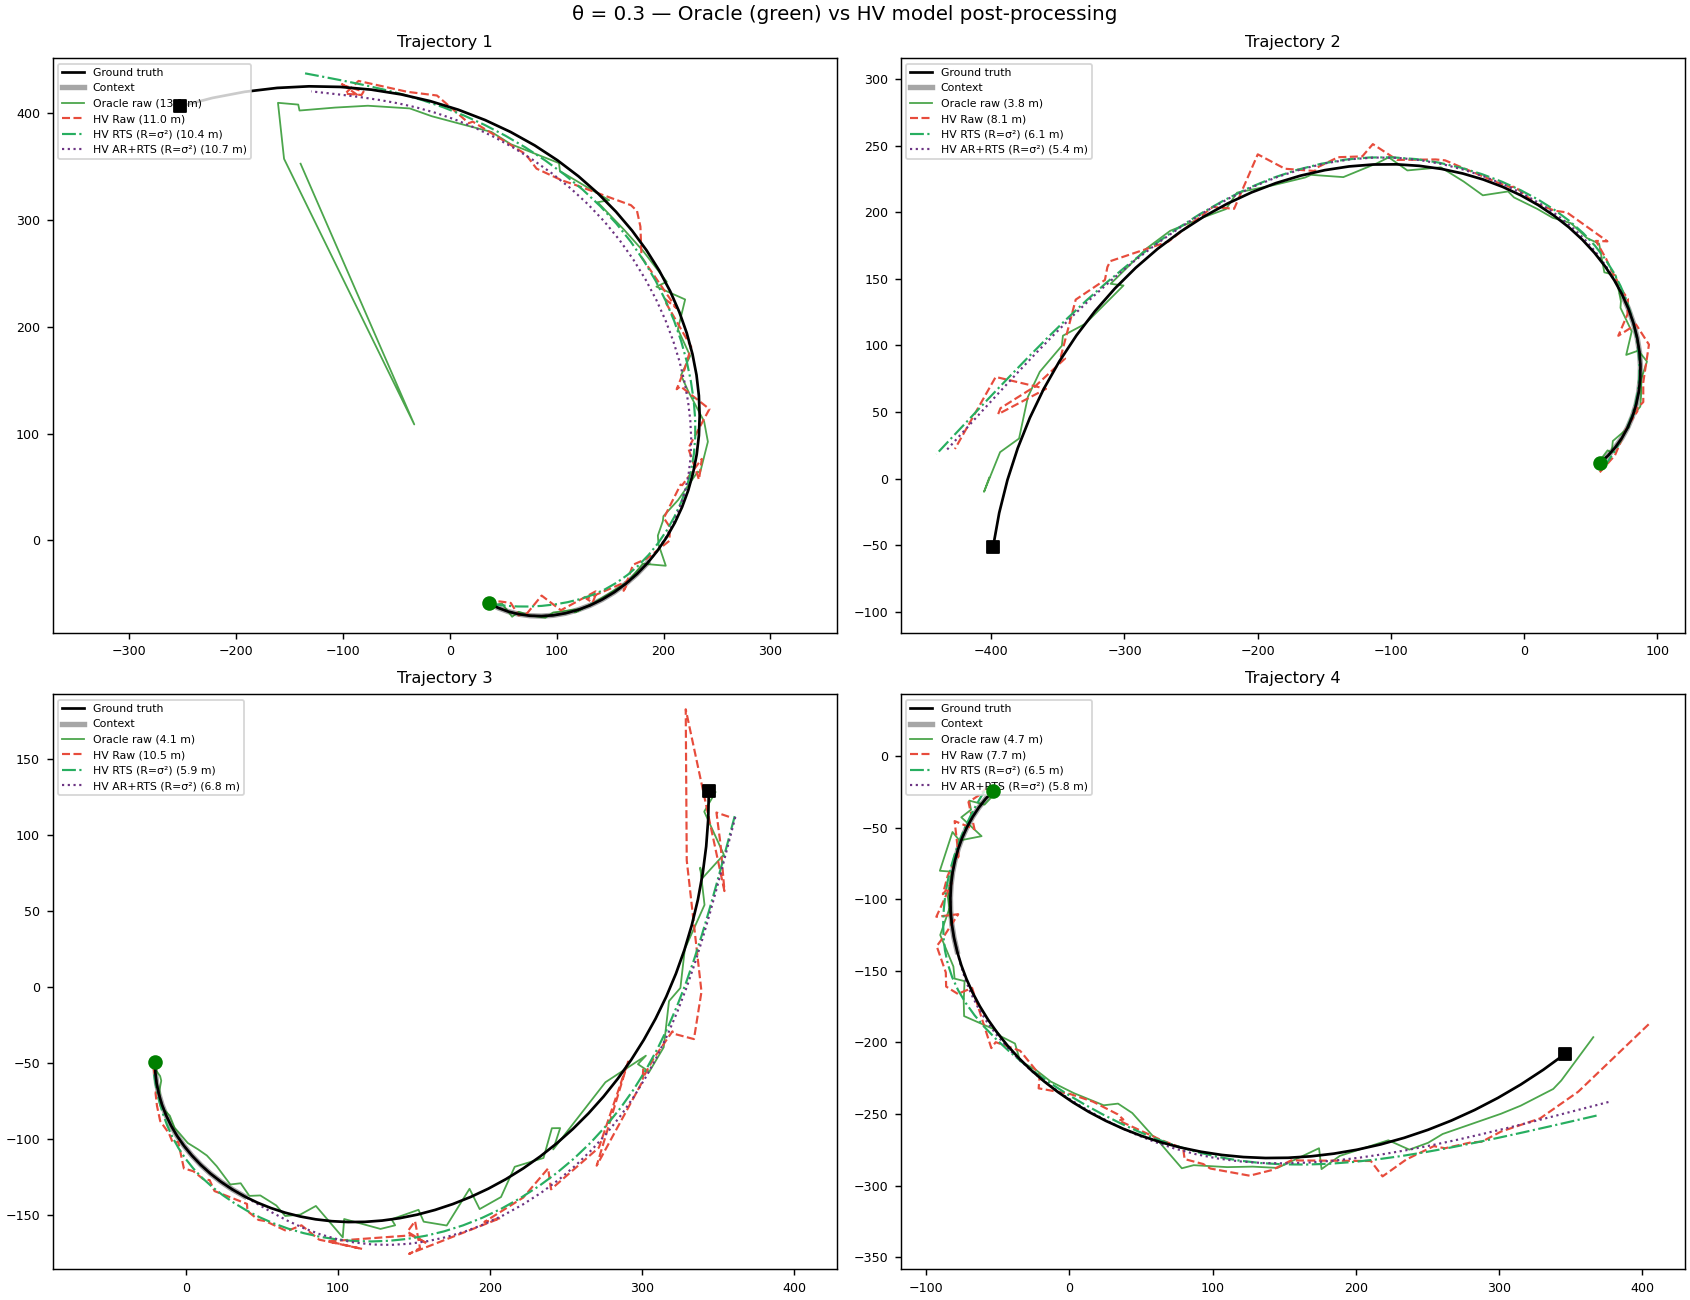
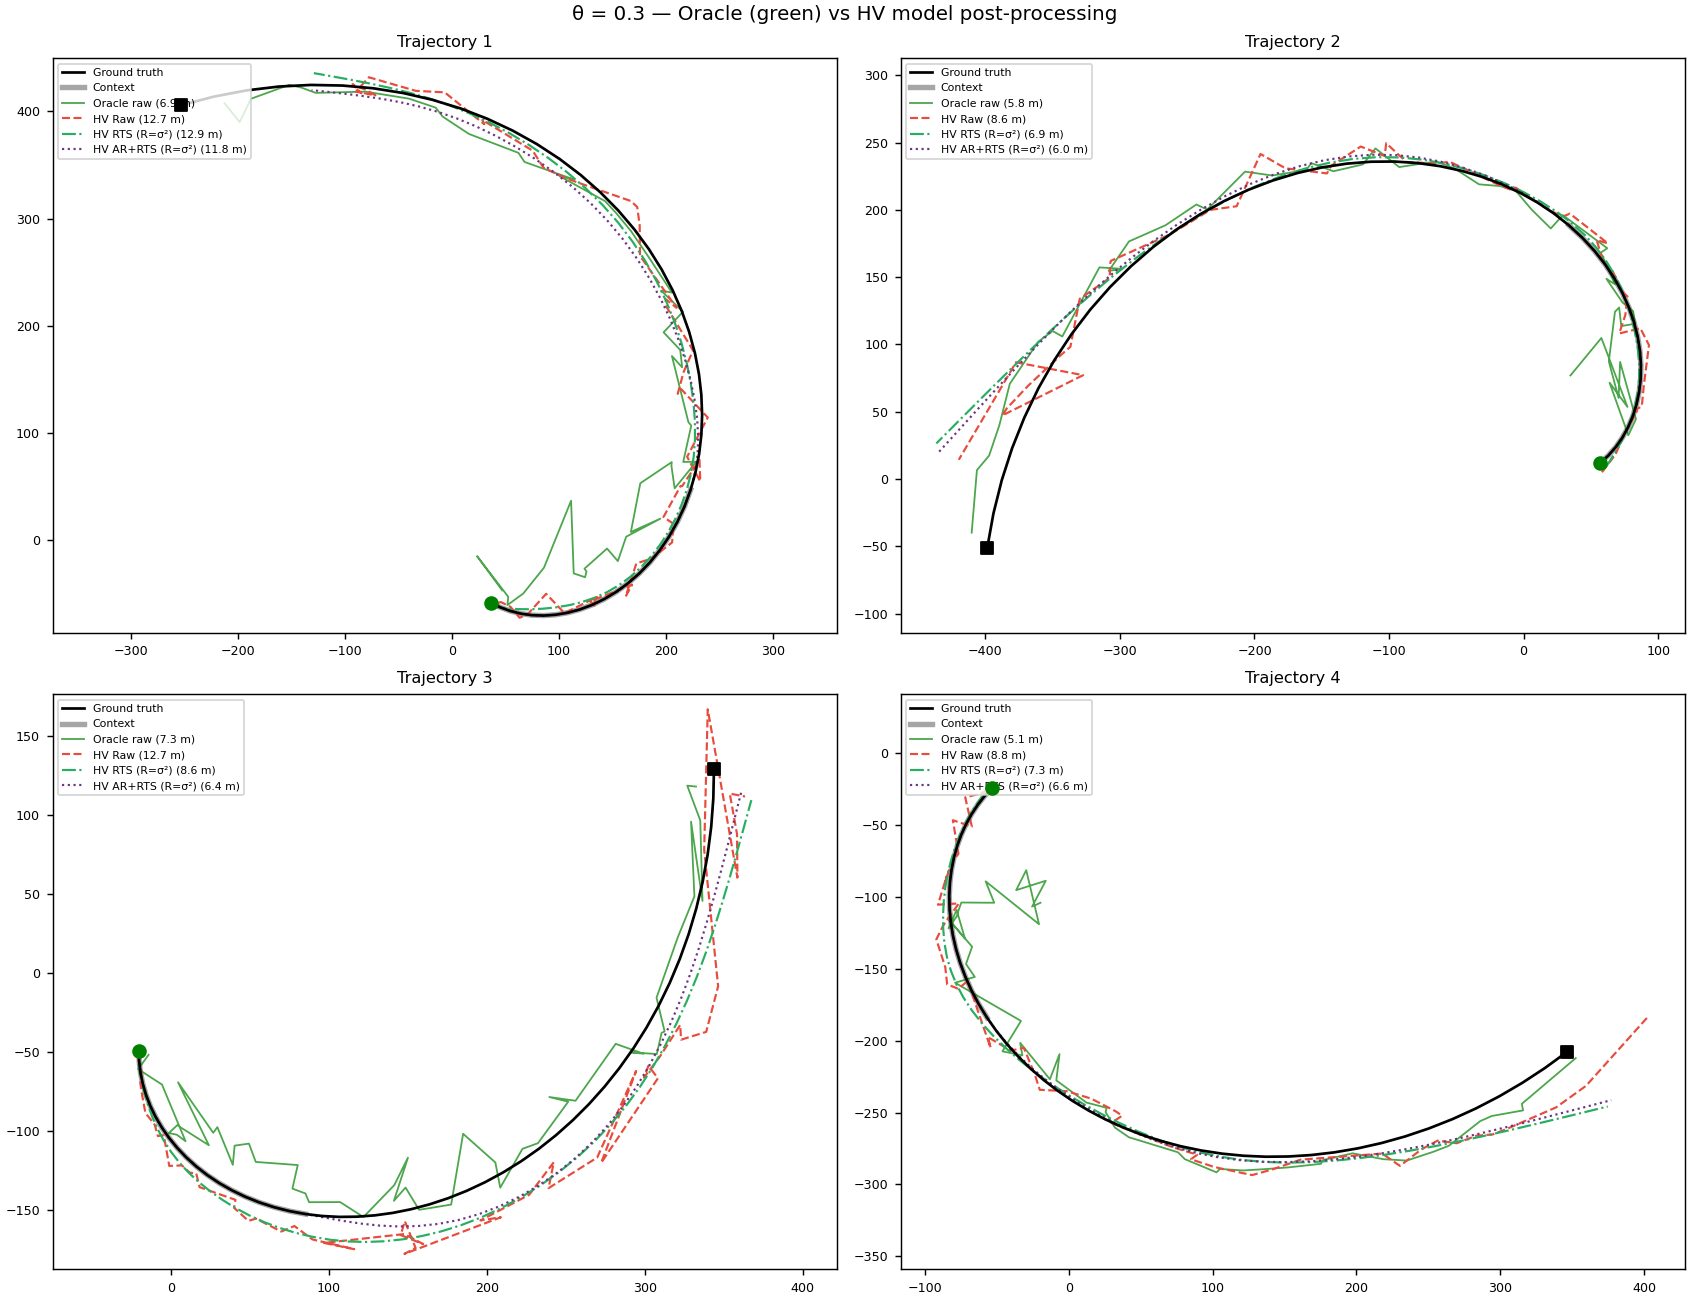
Add context bias and anchoring methods to evaluation script; update results and summaries

diff --git a/underwater-localization-topologies/src/evaluation/eval_ood_postprocess.py b/underwater-localization-topologies/src/evaluation/eval_ood_postprocess.py
@@ -36,7 +36,7 @@ Uso:
     --lowvar-data-dir /home/fernando/tesis/underwater-localization-topologies/data/data/data_processed_topologies_low_variance \
     --highvar-data-dir /home/fernando/tesis/underwater-localization-topologies/data/data/data_processed_topologies_high_variance \
     --topology ellipsoidal \
-    --context 30 \
+    --context 40 \
     --output-dir results/eval_ood_postprocess
 """
 
@@ -72,10 +72,15 @@ ALL_METHODS = [
     "kalman_cv_calib",      # calibrated R + velocity init from context
     "kalman_rts_I",
     "kalman_rts_var",
+    "ctx_bias",             # global mean-shift correction from context residuals
+    "ctx_anchor",           # relative-displacement anchoring to last context GT
     "ar_raw",
     "ar_uncert",            # AR ordered by ascending predicted variance
+    "ar_kalman_cv_I",       # AR + causal Kalman CV (R=I)    — online alternative to RTS
+    "ar_kalman_cv_var",     # AR + causal Kalman CV (R=σ²)   — online alternative to RTS
     "ar_kalman_rts_I",
     "ar_kalman_rts_var",
+    "ctx_bias_ar",          # bias-corrected predictions fed into AR rollout
 ]
 
 METHOD_LABELS = {
@@ -86,10 +91,15 @@ METHOD_LABELS = {
     "kalman_cv_calib":   "Kal CV (R=calib)",
     "kalman_rts_I":      "RTS (R=I)",
     "kalman_rts_var":    "RTS (R=\u03c3\u00b2)",
+    "ctx_bias":          "Ctx Bias",
+    "ctx_anchor":        "Ctx Anchor",
     "ar_raw":            "AR raw",
     "ar_uncert":         "AR (by \u03c3\u00b2)",
+    "ar_kalman_cv_I":    "AR+Kal CV (R=I)",
+    "ar_kalman_cv_var":  "AR+Kal CV (R=\u03c3\u00b2)",
     "ar_kalman_rts_I":   "AR+RTS (R=I)",
     "ar_kalman_rts_var": "AR+RTS (R=\u03c3\u00b2)",
+    "ctx_bias_ar":       "Bias+AR",
 }
 
 METHOD_COLORS = {
@@ -100,10 +110,15 @@ METHOD_COLORS = {
     "kalman_cv_calib":   "#16a085",
     "kalman_rts_I":      "#1abc9c",
     "kalman_rts_var":    "#27ae60",
+    "ctx_bias":          "#c0392b",
+    "ctx_anchor":        "#d35400",
     "ar_raw":            "#3498db",
     "ar_uncert":         "#2980b9",
+    "ar_kalman_cv_I":    "#8e44ad",
+    "ar_kalman_cv_var":  "#6c3483",
     "ar_kalman_rts_I":   "#9b59b6",
-    "ar_kalman_rts_var": "#6c3483",
+    "ar_kalman_rts_var": "#4a235a",
+    "ctx_bias_ar":       "#1a5276",
 }
 
 # ---------------------------------------------------------------------------
@@ -374,6 +389,47 @@ def _kalman_cv_calib(
     return xf[:, :2].astype(np.float32)
 
 
+def _ctx_bias_shift(
+    z_xy:      np.ndarray,   # (T,2)  raw ANP predictions (physical units)
+    ctx_idx:   np.ndarray,   # (N_ctx,) integer indices of context points
+    gt_ctx_xy: np.ndarray,   # (N_ctx,2) ground-truth positions at context points
+) -> np.ndarray:             # (T,2)
+    """
+    Global mean-shift correction: computes the mean residual (GT - pred) over
+    the context window and adds it uniformly to all predictions.
+    Fully online and causal — requires only context observations.
+    """
+    pred_ctx = z_xy[ctx_idx]               # (N_ctx, 2)
+    bias     = np.mean(gt_ctx_xy - pred_ctx, axis=0)   # (2,)
+    return (z_xy + bias).astype(np.float32)
+
+
+def _ctx_anchor(
+    z_xy:      np.ndarray,   # (T,2)  raw ANP predictions (physical units)
+    ctx_idx:   np.ndarray,   # (N_ctx,) integer indices of context points
+    gt_ctx_xy: np.ndarray,   # (N_ctx,2) ground-truth positions at context points
+) -> np.ndarray:             # (T,2)
+    """
+    Relative-displacement anchoring: for each target step t, uses the closest
+    context point c as an anchor and replaces the absolute prediction with
+      pred_anchored[t] = gt[c] + (pred[t] - pred[c])
+    This removes the absolute position bias while preserving the ANP's
+    predicted relative displacements.
+    Fully online and causal.
+    """
+    ctx_sorted = np.sort(ctx_idx)
+    gt_sorted  = gt_ctx_xy[np.argsort(ctx_idx)]  # GT sorted by time
+    T          = z_xy.shape[0]
+    out        = z_xy.copy().astype(np.float32)
+    for t in range(T):
+        # index of closest context point in time
+        dists = np.abs(ctx_sorted - t)
+        c_pos = int(np.argmin(dists))       # position in sorted ctx array
+        c_t   = ctx_sorted[c_pos]           # time-index of that context point
+        out[t] = gt_sorted[c_pos] + (z_xy[t] - z_xy[c_t])
+    return out
+
+
 def apply_postprocess(
     z_xy:     np.ndarray,    # (T,2) positions in physical units
     var_xy:   np.ndarray,    # (T,2) predicted variance in physical units
@@ -501,7 +557,10 @@ _FILTER_METHODS = [
     "kalman_rts_I", "kalman_rts_var",
 ]
 _AR_FILTER_METHODS = [
-    "ar_kalman_rts_I", "ar_kalman_rts_var",
+    ("ar_kalman_cv_I",   "kalman_cv_I"),
+    ("ar_kalman_cv_var",  "kalman_cv_var"),
+    ("ar_kalman_rts_I",  "kalman_rts_I"),
+    ("ar_kalman_rts_var", "kalman_rts_var"),
 ]
 
 
@@ -595,6 +654,20 @@ def eval_theta_group(
         p_calib = p_np.copy(); p_calib[:, :2] = xy_calib
         maes["kalman_cv_calib"].append(_mae(p_calib))
 
+        # --- ctx_bias: global mean-shift from context residuals ---
+        t0 = time.perf_counter()
+        xy_bias = _ctx_bias_shift(p_np[:, :2], ctx_np_arr, y_np[ctx_np_arr, :2])
+        latencies["ctx_bias"].append(time.perf_counter() - t0)
+        p_bias = p_np.copy(); p_bias[:, :2] = xy_bias
+        maes["ctx_bias"].append(_mae(p_bias))
+
+        # --- ctx_anchor: relative-displacement anchoring to closest context GT ---
+        t0 = time.perf_counter()
+        xy_anchor = _ctx_anchor(p_np[:, :2], ctx_np_arr, y_np[ctx_np_arr, :2])
+        latencies["ctx_anchor"].append(time.perf_counter() - t0)
+        p_anchor = p_np.copy(); p_anchor[:, :2] = xy_anchor
+        maes["ctx_anchor"].append(_mae(p_anchor))
+
         # ---- AR rollout (timed) ----
         if device.type == "cuda":
             torch.cuda.synchronize()
@@ -628,8 +701,7 @@ def eval_theta_group(
         latencies["ar_uncert"].append(time.perf_counter() - t0)
         maes["ar_uncert"].append(_mae(ar_uncert_phys.squeeze(0).cpu().numpy()))
 
-        for ar_key, filt in [("ar_kalman_rts_I", "kalman_rts_I"),
-                              ("ar_kalman_rts_var", "kalman_rts_var")]:
+        for ar_key, filt in _AR_FILTER_METHODS:
             t0 = time.perf_counter()
             xy_pp = apply_postprocess(
                 z_xy=p_ar[:, :2], var_xy=v_ar[:, :2],
@@ -638,6 +710,31 @@ def eval_theta_group(
             latencies[ar_key].append(t_ar + (time.perf_counter() - t0))  # AR + filter
             p_pp = p_ar.copy(); p_pp[:, :2] = xy_pp
             maes[ar_key].append(_mae(p_pp))
+
+        # --- ctx_bias_ar: bias-corrected predictions fed into AR rollout ---
+        # Shift the raw measurements by the context bias before AR so that
+        # AR starts from better-anchored context observations.
+        y_bias_phys = y.clone()
+        bias_vec    = torch.tensor(
+            np.mean(y_np[ctx_np_arr, :2] - p_np[ctx_np_arr, :2], axis=0),
+            dtype=torch.float32, device=device,
+        )                                                 # (2,)
+        y_bias_phys[0, :, :2] = y_bias_phys[0, :, :2] + bias_vec
+        if device.type == "cuda":
+            torch.cuda.synchronize()
+        t0 = time.perf_counter()
+        ar_bias_phys, _ = _ar_rollout(
+            model=model, x=x, y=y_bias_phys,
+            ctx_idx=ctx, y_mean=y_mean, y_std=y_std,
+            block_k=ar_block_k, var_thresh=ar_var_thresh,
+        )
+        if device.type == "cuda":
+            torch.cuda.synchronize()
+        latencies["ctx_bias_ar"].append(time.perf_counter() - t0)
+        # undo the bias shift on the AR output so MAE is against original GT
+        ar_bias_np = ar_bias_phys.squeeze(0).cpu().numpy().copy()
+        ar_bias_np[:, :2] -= bias_vec.cpu().numpy()
+        maes["ctx_bias_ar"].append(_mae(ar_bias_np))
 
     maes_mean  = {k: float(np.mean(v)) if v else float("nan") for k, v in maes.items()}
     lats_mean  = {k: float(np.mean(v)) if v else float("nan") for k, v in latencies.items()}
@@ -704,6 +801,16 @@ def predict_single(
     pp = p_np.copy(); pp[:, :2] = xy_calib
     preds["kalman_cv_calib"] = pp
 
+    # ctx_bias
+    xy_bias = _ctx_bias_shift(p_np[:, :2], ctx_np, y_np[ctx_np, :2])
+    pp = p_np.copy(); pp[:, :2] = xy_bias
+    preds["ctx_bias"] = pp
+
+    # ctx_anchor
+    xy_anchor = _ctx_anchor(p_np[:, :2], ctx_np, y_np[ctx_np, :2])
+    pp = p_np.copy(); pp[:, :2] = xy_anchor
+    preds["ctx_anchor"] = pp
+
     ar_phys, ar_var = _ar_rollout(
         model=model, x=x, y=y, ctx_idx=ctx,
         y_mean=y_mean, y_std=y_std,
@@ -719,14 +826,27 @@ def predict_single(
         block_k=ar_block_k, var_thresh=ar_var_thresh,
     )
     preds["ar_uncert"] = ar_uncert_phys.squeeze(0).cpu().numpy()
-    for ar_key, filt in [("ar_kalman_rts_I", "kalman_rts_I"),
-                          ("ar_kalman_rts_var", "kalman_rts_var")]:
+    for ar_key, filt in _AR_FILTER_METHODS:
         xy_pp = apply_postprocess(
             z_xy=p_ar[:, :2], var_xy=v_ar[:, :2],
             method=filt, dt=dt, alpha=alpha, beta=beta, sigma_a=sigma_a,
         )
         pp = p_ar.copy(); pp[:, :2] = xy_pp
         preds[ar_key] = pp
+
+    # ctx_bias_ar: bias-corrected GT-anchor fed into AR
+    bias_vec    = np.mean(y_np[ctx_np, :2] - p_np[ctx_np, :2], axis=0)  # (2,)
+    y_bias_phys = torch.tensor(y_np.copy(), dtype=torch.float32, device=device).unsqueeze(0)
+    y_bias_phys[0, :, :2] = y_bias_phys[0, :, :2] + torch.tensor(
+        bias_vec, dtype=torch.float32, device=device)
+    ar_bias_phys, _ = _ar_rollout(
+        model=model, x=x, y=y_bias_phys,
+        ctx_idx=ctx, y_mean=y_mean, y_std=y_std,
+        block_k=ar_block_k, var_thresh=ar_var_thresh,
+    )
+    ar_bias_np = ar_bias_phys.squeeze(0).cpu().numpy().copy()
+    ar_bias_np[:, :2] -= bias_vec
+    preds["ctx_bias_ar"] = ar_bias_np
 
     return {"gt": y_np, "ctx_idx": ctx_np, "nc_mask": nc_mask, "preds": preds}
 
@@ -1255,22 +1375,13 @@ def save_trajectory_plot(
 # ---------------------------------------------------------------------------
 
 def parse_args() -> argparse.Namespace:
-    p = argparse.ArgumentParser(
-        description="Evaluate post-processing to reduce OoD MAE gap."
-    )
-    p.add_argument("--lowvar-ckpt",   type=Path, required=True,
-                   help="Checkpoint of lowvar ANP (oracle).")
-    p.add_argument("--highvar-ckpt",  type=Path, required=True,
-                   help="Checkpoint of highvar ANP (OoD model to improve).")
-    p.add_argument("--lowvar-data-dir",  type=Path, required=True,
-                   help="Processed data directory for lowvar (test target).")
-    p.add_argument("--highvar-data-dir", type=Path, required=True,
-                   help="Processed data directory for highvar "
-                        "(used only for normalization stats of the highvar model).")
-    p.add_argument("--topology",  type=str, default="ellipsoidal",
-                   choices=["ellipsoidal", "aligned", "random"])
-    p.add_argument("--context",   type=int, default=30,
-                   help="Context percentage [0-100].")
+    p = argparse.ArgumentParser(description="Evaluate post-processing to reduce OoD MAE gap.")
+    p.add_argument("--lowvar-ckpt",   type=Path, required=True, help="Checkpoint of lowvar ANP (oracle).")
+    p.add_argument("--highvar-ckpt",  type=Path, required=True, help="Checkpoint of highvar ANP (OoD model to improve).")
+    p.add_argument("--lowvar-data-dir",  type=Path, required=True, help="Processed data directory for lowvar (test target).")
+    p.add_argument("--highvar-data-dir", type=Path, required=True, help="Processed data directory for highvar (used only for normalization stats of the highvar model).")
+    p.add_argument("--topology",  type=str, default="ellipsoidal", choices=["ellipsoidal", "aligned", "random"])
+    p.add_argument("--context",   type=int, default=40, help="Context percentage [0-100].")
     p.add_argument("--dt",        type=float, default=1.0)
     p.add_argument("--alpha",     type=float, default=0.85)
     p.add_argument("--beta",      type=float, default=0.005)
@@ -1279,10 +1390,8 @@ def parse_args() -> argparse.Namespace:
     p.add_argument("--ar-var-thresh",  type=float, default=0.01)
     p.add_argument("--n-traj-plots",   type=int,   default=4)
     p.add_argument("--seed",      type=int, default=EVAL_SEED)
-    p.add_argument("--output-dir", type=Path,
-                   default=Path("results/eval_ood_postprocess"))
-    p.add_argument("--no-traj-plots", action="store_true",
-                   help="Skip qualitative trajectory plots.")
+    p.add_argument("--output-dir", type=Path, default=Path("results/eval_ood_postprocess"))
+    p.add_argument("--no-traj-plots", action="store_true", help="Skip qualitative trajectory plots.")
     return p.parse_args()
 
 
